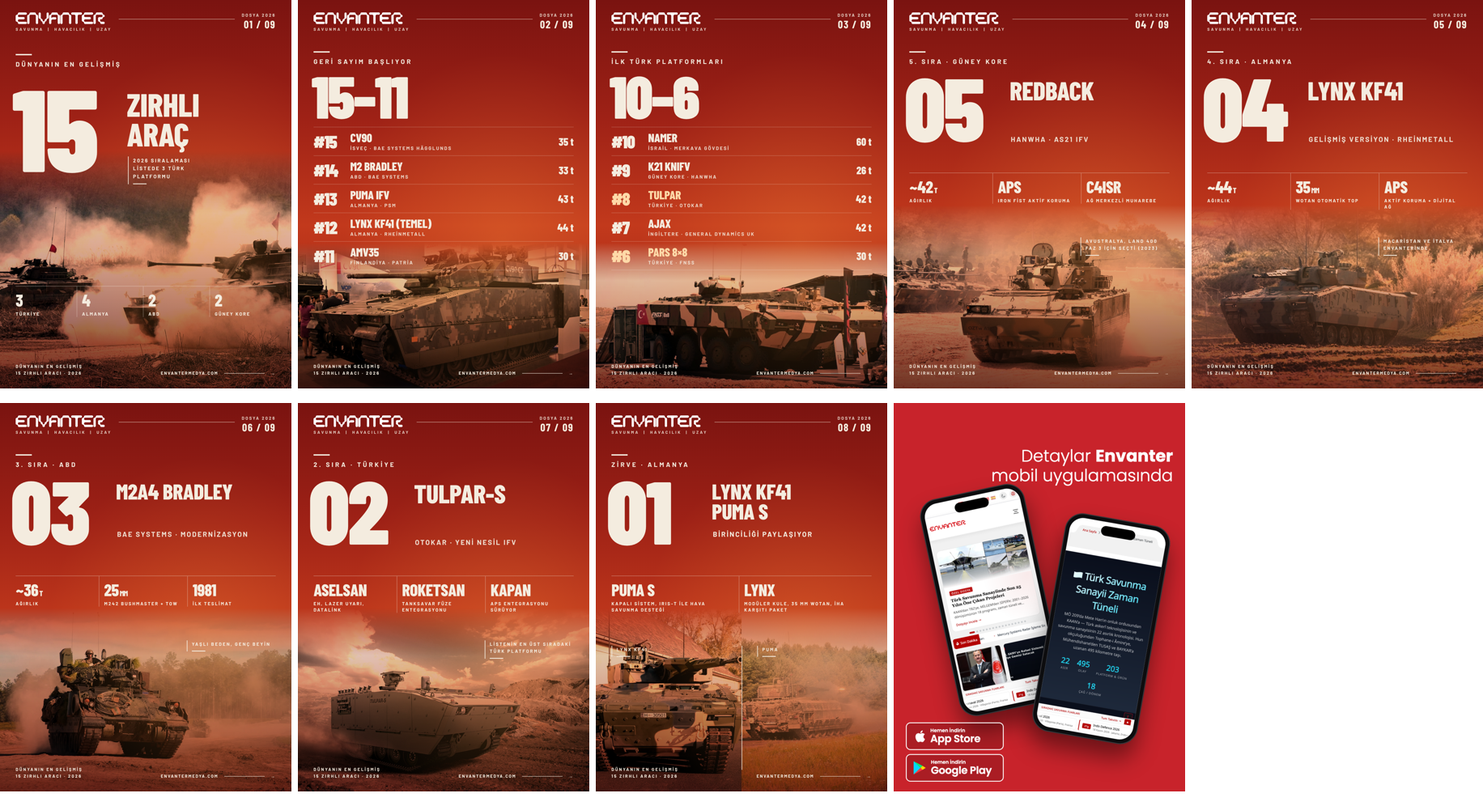
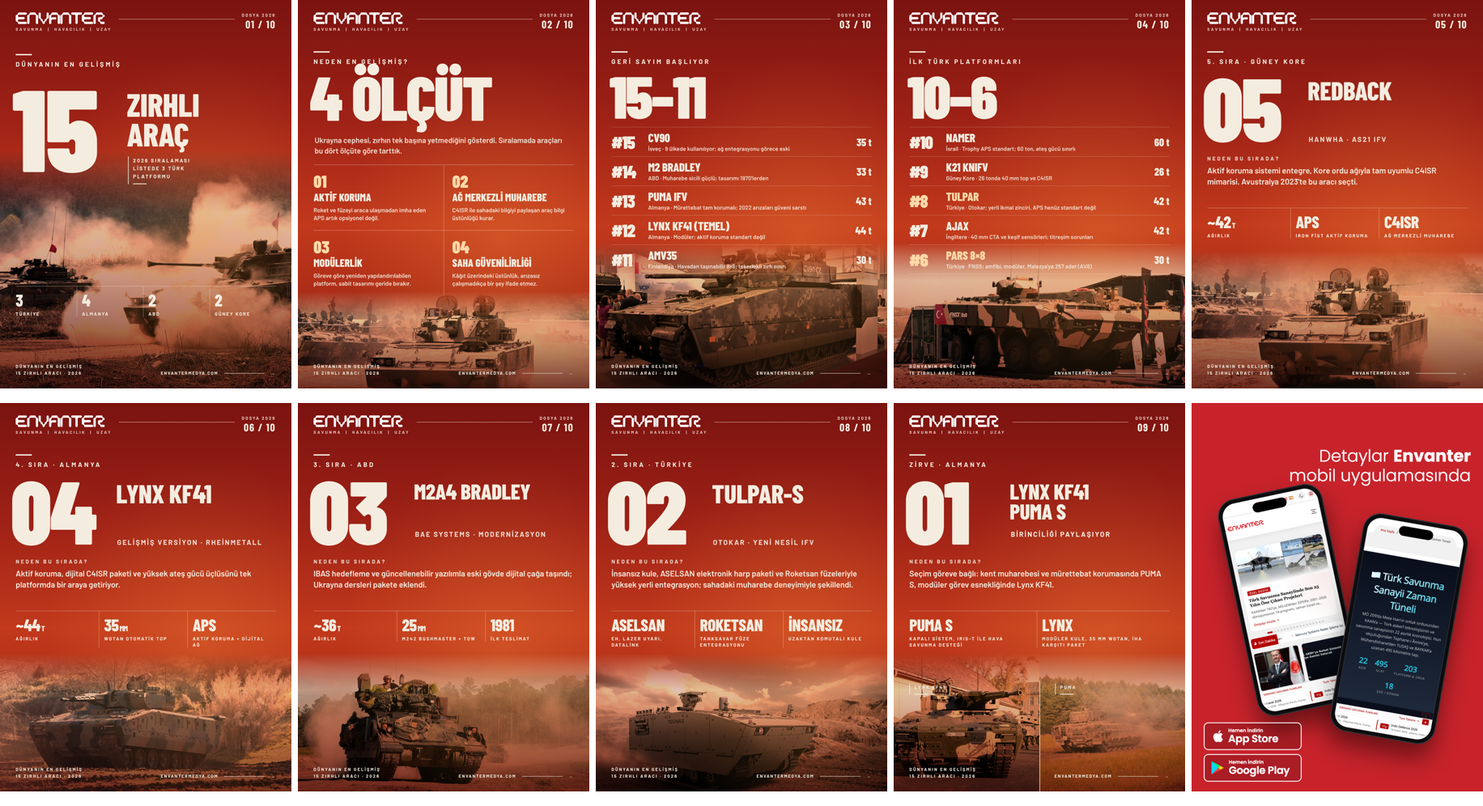
15 zırhlı araç serisi: "Neden en gelişmiş" ölçüt slaytı, satır gerekçeleri ve sıra açıklamaları eklendi
Claude-Session: https://claude.ai/code/session_01AWoAGzbCcH5xr3TPTj3t44

diff --git a/kartlar/en-gelismis-15-zirhli/seri.html b/kartlar/en-gelismis-15-zirhli/seri.html
@@ -48,54 +48,74 @@ body{background:#000}
 .rows .t span{display:block;font-size:18px;font-weight:700;letter-spacing:3.5px;text-transform:uppercase;margin-top:6px;opacity:.88}
 .rows .w{font-family:"Barlow Condensed";font-weight:800;font-size:40px;text-align:right}
 .rows .rw.tr .n,.rows .rw.tr .t b{color:#FFD9A8}
-</style></head><body><section class="card" id="s1"><div class="ph" style="top:560px;background-image:url(_src/kapak.jpg);background-position:60% center"></div><div class="tint" style="top:560px"></div><div class="glow"></div><div class="hd"><div class="lg"><img src="_src/logo-white.png"><div>SAVUNMA &nbsp;|&nbsp; HAVACILIK &nbsp;|&nbsp; UZAY</div></div><div class="ln"></div><div class="ds"><div>DOSYA 2026</div><b>01 / 09</b></div></div>
+
+.rows .t span.g{font-size:21px;font-weight:600;letter-spacing:.2px;text-transform:none;opacity:.92}
+.why{position:absolute;left:58px;right:58px;z-index:6}
+.why .k{font-size:20px;font-weight:700;letter-spacing:6px;opacity:.9}
+.why p{font-size:30px;line-height:1.36;font-weight:600;margin-top:12px}
+.cr{position:absolute;left:58px;right:58px;top:560px;z-index:6;display:grid;grid-template-columns:1fr 1fr;gap:0}
+.cr>div{padding:30px 30px 30px 0;border-top:2px solid rgba(244,236,223,.35)}
+.cr>div:nth-child(even){padding-left:30px;border-left:2px solid rgba(244,236,223,.35)}
+.cr b{display:block;font-family:"Barlow Condensed";font-weight:900;font-size:64px;line-height:.9;color:#FFD9A8}
+.cr i{display:block;font-style:normal;font-family:"Barlow Condensed";font-weight:800;font-size:40px;text-transform:uppercase;margin-top:6px}
+.cr span{display:block;font-size:22px;line-height:1.35;font-weight:600;margin-top:10px;opacity:.92}
+</style></head><body><section class="card" id="s1"><div class="ph" style="top:560px;background-image:url(_src/kapak.jpg);background-position:60% center"></div><div class="tint" style="top:560px"></div><div class="glow"></div><div class="hd"><div class="lg"><img src="_src/logo-white.png"><div>SAVUNMA &nbsp;|&nbsp; HAVACILIK &nbsp;|&nbsp; UZAY</div></div><div class="ln"></div><div class="ds"><div>DOSYA 2026</div><b>01 / 10</b></div></div>
 <div class="z" style="left:58px;top:200px"><div class="bar"></div><div class="lab">Dünyanın en gelişmiş</div></div>
 <div class="z big" style="left:44px;top:290px;font-size:430px">15</div>
 <div class="z h" style="left:470px;top:330px;font-size:120px">Zırhlı<br>Araç</div>
 <div class="z vn" style="left:474px;top:580px">2026 sıralaması<br>listede 3 türk<br>platformu</div>
 <div class="z stats" style="left:58px;right:58px;top:1060px"><div><b>3</b><span>Türkiye</span></div><div><b>4</b><span>Almanya</span></div><div><b>2</b><span>ABD</span></div><div><b>2</b><span>Güney Kore</span></div></div><div class="ft"><div>Dünyanın en gelişmiş<br>15 zırhlı aracı · 2026</div><div class="r">envantermedya.com <i></i>→</div></div></section>
-<section class="card" id="s2"><div class="ph" style="top:900px;background-image:url(_src/cv90.jpg);background-position:center 40%"></div><div class="tint" style="top:900px"></div><div class="glow"></div><div class="hd"><div class="lg"><img src="_src/logo-white.png"><div>SAVUNMA &nbsp;|&nbsp; HAVACILIK &nbsp;|&nbsp; UZAY</div></div><div class="ln"></div><div class="ds"><div>DOSYA 2026</div><b>02 / 09</b></div></div>
+<section class="card" id="s2"><div class="ph" style="top:1080px;background-image:url(_src/redback.jpg);background-position:center 40%"></div><div class="tint" style="top:1080px"></div><div class="glow"></div><div class="hd"><div class="lg"><img src="_src/logo-white.png"><div>SAVUNMA &nbsp;|&nbsp; HAVACILIK &nbsp;|&nbsp; UZAY</div></div><div class="ln"></div><div class="ds"><div>DOSYA 2026</div><b>02 / 10</b></div></div>
+<div class="z" style="left:58px;top:190px"><div class="bar"></div><div class="lab">Neden en gelişmiş?</div></div>
+<div class="z big" style="left:44px;top:262px;font-size:230px">4 ölçüt</div>
+<div class="z" style="left:62px;top:500px;font-size:28px;font-weight:600;line-height:1.4;max-width:920px;opacity:.95">Ukrayna cephesi, zırhın tek başına yetmediğini gösterdi. Sıralamada araçları bu dört ölçüte göre tarttık.</div>
+<div class="cr" style="top:610px"><div><b>01</b><i>Aktif koruma</i><span>Roket ve füzeyi araca ulaşmadan imha eden APS artık opsiyonel değil.</span></div>
+<div><b>02</b><i>Ağ merkezli muharebe</i><span>C4ISR ile sahadaki bilgiyi paylaşan araç bilgi üstünlüğü kurar.</span></div>
+<div><b>03</b><i>Modülerlik</i><span>Göreve göre yeniden yapılandırılabilen platform, sabit tasarımı geride bırakır.</span></div>
+<div><b>04</b><i>Saha güvenilirliği</i><span>Kâğıt üzerindeki üstünlük, arızasız çalışmadıkça bir şey ifade etmez.</span></div></div>
+<div class="ft"><div>Dünyanın en gelişmiş<br>15 zırhlı aracı · 2026</div><div class="r">envantermedya.com <i></i>→</div></div></section>
+<section class="card" id="s3"><div class="ph" style="top:900px;background-image:url(_src/cv90.jpg);background-position:center 40%"></div><div class="tint" style="top:900px"></div><div class="glow"></div><div class="hd"><div class="lg"><img src="_src/logo-white.png"><div>SAVUNMA &nbsp;|&nbsp; HAVACILIK &nbsp;|&nbsp; UZAY</div></div><div class="ln"></div><div class="ds"><div>DOSYA 2026</div><b>03 / 10</b></div></div>
 <div class="z" style="left:58px;top:190px"><div class="bar"></div><div class="lab">Geri sayım başlıyor</div></div>
 <div class="z big" style="left:50px;top:262px;font-size:220px">15–11</div>
-<div class="z rows" style="left:58px;right:58px;top:470px"><div class="rw"><div class="n">#15</div><div class="t"><b>CV90</b><span>İsveç · BAE Systems Hägglunds</span></div><div class="w">35 t</div></div><div class="rw"><div class="n">#14</div><div class="t"><b>M2 Bradley</b><span>ABD · BAE Systems</span></div><div class="w">33 t</div></div><div class="rw"><div class="n">#13</div><div class="t"><b>PUMA IFV</b><span>Almanya · PSM</span></div><div class="w">43 t</div></div><div class="rw"><div class="n">#12</div><div class="t"><b>Lynx KF41 (temel)</b><span>Almanya · Rheinmetall</span></div><div class="w">44 t</div></div><div class="rw"><div class="n">#11</div><div class="t"><b>AMV35</b><span>Finlandiya · Patria</span></div><div class="w">30 t</div></div></div><div class="ft"><div>Dünyanın en gelişmiş<br>15 zırhlı aracı · 2026</div><div class="r">envantermedya.com <i></i>→</div></div></section>
-<section class="card" id="s3"><div class="ph" style="top:900px;background-image:url(_src/pars.jpg);background-position:center 55%"></div><div class="tint" style="top:900px"></div><div class="glow"></div><div class="hd"><div class="lg"><img src="_src/logo-white.png"><div>SAVUNMA &nbsp;|&nbsp; HAVACILIK &nbsp;|&nbsp; UZAY</div></div><div class="ln"></div><div class="ds"><div>DOSYA 2026</div><b>03 / 09</b></div></div>
+<div class="z rows" style="left:58px;right:58px;top:470px"><div class="rw"><div class="n">#15</div><div class="t"><b>CV90</b><span class="g">İsveç · 9 ülkede kullanılıyor; ağ entegrasyonu görece eski</span></div><div class="w">35 t</div></div><div class="rw"><div class="n">#14</div><div class="t"><b>M2 Bradley</b><span class="g">ABD · Muharebe sicili güçlü; tasarımı 1970'lerden</span></div><div class="w">33 t</div></div><div class="rw"><div class="n">#13</div><div class="t"><b>PUMA IFV</b><span class="g">Almanya · Mürettebat tam korumalı; 2022 arızaları güveni sarstı</span></div><div class="w">43 t</div></div><div class="rw"><div class="n">#12</div><div class="t"><b>Lynx KF41 (temel)</b><span class="g">Almanya · Modüler; aktif koruma standart değil</span></div><div class="w">44 t</div></div><div class="rw"><div class="n">#11</div><div class="t"><b>AMV35</b><span class="g">Finlandiya · Havadan taşınabilir 8×8; tekerlekli zırh sınırı</span></div><div class="w">30 t</div></div></div><div class="ft"><div>Dünyanın en gelişmiş<br>15 zırhlı aracı · 2026</div><div class="r">envantermedya.com <i></i>→</div></div></section>
+<section class="card" id="s4"><div class="ph" style="top:900px;background-image:url(_src/pars.jpg);background-position:center 55%"></div><div class="tint" style="top:900px"></div><div class="glow"></div><div class="hd"><div class="lg"><img src="_src/logo-white.png"><div>SAVUNMA &nbsp;|&nbsp; HAVACILIK &nbsp;|&nbsp; UZAY</div></div><div class="ln"></div><div class="ds"><div>DOSYA 2026</div><b>04 / 10</b></div></div>
 <div class="z" style="left:58px;top:190px"><div class="bar"></div><div class="lab">İlk Türk platformları</div></div>
 <div class="z big" style="left:50px;top:262px;font-size:220px">10–6</div>
-<div class="z rows" style="left:58px;right:58px;top:470px"><div class="rw"><div class="n">#10</div><div class="t"><b>Namer</b><span>İsrail · Merkava gövdesi</span></div><div class="w">60 t</div></div><div class="rw"><div class="n">#9</div><div class="t"><b>K21 KNIFV</b><span>Güney Kore · Hanwha</span></div><div class="w">26 t</div></div><div class="rw tr"><div class="n">#8</div><div class="t"><b>TULPAR</b><span>Türkiye · Otokar</span></div><div class="w">42 t</div></div><div class="rw"><div class="n">#7</div><div class="t"><b>AJAX</b><span>İngiltere · General Dynamics UK</span></div><div class="w">42 t</div></div><div class="rw tr"><div class="n">#6</div><div class="t"><b>PARS 8×8</b><span>Türkiye · FNSS</span></div><div class="w">30 t</div></div></div><div class="ft"><div>Dünyanın en gelişmiş<br>15 zırhlı aracı · 2026</div><div class="r">envantermedya.com <i></i>→</div></div></section>
-<section class="card" id="s4"><div class="ph" style="top:760px;background-image:url(_src/redback.jpg);background-position:center 45%"></div><div class="tint" style="top:760px"></div><div class="glow"></div><div class="hd"><div class="lg"><img src="_src/logo-white.png"><div>SAVUNMA &nbsp;|&nbsp; HAVACILIK &nbsp;|&nbsp; UZAY</div></div><div class="ln"></div><div class="ds"><div>DOSYA 2026</div><b>04 / 09</b></div></div>
+<div class="z rows" style="left:58px;right:58px;top:470px"><div class="rw"><div class="n">#10</div><div class="t"><b>Namer</b><span class="g">İsrail · Trophy APS standart; 60 ton, ateş gücü sınırlı</span></div><div class="w">60 t</div></div><div class="rw"><div class="n">#9</div><div class="t"><b>K21 KNIFV</b><span class="g">Güney Kore · 26 tonda 40 mm top ve C4ISR</span></div><div class="w">26 t</div></div><div class="rw tr"><div class="n">#8</div><div class="t"><b>TULPAR</b><span class="g">Türkiye · Otokar; yerli ikmal zinciri, APS henüz standart değil</span></div><div class="w">42 t</div></div><div class="rw"><div class="n">#7</div><div class="t"><b>AJAX</b><span class="g">İngiltere · 40 mm CTA ve keşif sensörleri; titreşim sorunları</span></div><div class="w">42 t</div></div><div class="rw tr"><div class="n">#6</div><div class="t"><b>PARS 8×8</b><span class="g">Türkiye · FNSS; amfibi, modüler, Malezya'ya 257 adet (AV8)</span></div><div class="w">30 t</div></div></div><div class="ft"><div>Dünyanın en gelişmiş<br>15 zırhlı aracı · 2026</div><div class="r">envantermedya.com <i></i>→</div></div></section>
+<section class="card" id="s5"><div class="ph" style="top:930px;background-image:url(_src/redback.jpg);background-position:center 45%"></div><div class="tint" style="top:930px"></div><div class="glow"></div><div class="hd"><div class="lg"><img src="_src/logo-white.png"><div>SAVUNMA &nbsp;|&nbsp; HAVACILIK &nbsp;|&nbsp; UZAY</div></div><div class="ln"></div><div class="ds"><div>DOSYA 2026</div><b>05 / 10</b></div></div>
 <div class="z" style="left:58px;top:190px"><div class="bar"></div><div class="lab">5. sıra · Güney Kore</div></div>
 <div class="z big" style="left:40px;top:258px;font-size:330px">05</div>
 <div class="z h" style="left:430px;top:290px;font-size:96px">Redback</div>
 <div class="z" style="left:434px;top:500px;font-size:26px;font-weight:700;letter-spacing:4px;text-transform:uppercase;opacity:.92">Hanwha · AS21 IFV</div>
-<div class="z stats" style="left:58px;right:58px;top:640px"><div><b>~42<small>T</small></b><span>Ağırlık</span></div><div><b>APS</b><span>Iron Fist aktif koruma</span></div><div><b>C4ISR</b><span>Ağ merkezli muharebe</span></div></div>
-<div class="z vn" style="right:58px;top:880px;width:330px;font-size:17px">Avustralya, Land 400 Faz 3 için seçti (2023)</div><div class="ft"><div>Dünyanın en gelişmiş<br>15 zırhlı aracı · 2026</div><div class="r">envantermedya.com <i></i>→</div></div></section>
-<section class="card" id="s5"><div class="ph" style="top:760px;background-image:url(_src/lynx-it.jpg);background-position:center 55%"></div><div class="tint" style="top:760px"></div><div class="glow"></div><div class="hd"><div class="lg"><img src="_src/logo-white.png"><div>SAVUNMA &nbsp;|&nbsp; HAVACILIK &nbsp;|&nbsp; UZAY</div></div><div class="ln"></div><div class="ds"><div>DOSYA 2026</div><b>05 / 09</b></div></div>
+<div class="z stats" style="left:58px;right:58px;top:770px"><div><b>~42<small>T</small></b><span>Ağırlık</span></div><div><b>APS</b><span>Iron Fist aktif koruma</span></div><div><b>C4ISR</b><span>Ağ merkezli muharebe</span></div></div>
+<div class="why" style="top:575px"><div class="k">NEDEN BU SIRADA?</div><p>Aktif koruma sistemi entegre, Kore ordu ağıyla tam uyumlu C4ISR mimarisi. Avustralya 2023'te bu aracı seçti.</p></div><div class="ft"><div>Dünyanın en gelişmiş<br>15 zırhlı aracı · 2026</div><div class="r">envantermedya.com <i></i>→</div></div></section>
+<section class="card" id="s6"><div class="ph" style="top:930px;background-image:url(_src/lynx-it.jpg);background-position:center 55%"></div><div class="tint" style="top:930px"></div><div class="glow"></div><div class="hd"><div class="lg"><img src="_src/logo-white.png"><div>SAVUNMA &nbsp;|&nbsp; HAVACILIK &nbsp;|&nbsp; UZAY</div></div><div class="ln"></div><div class="ds"><div>DOSYA 2026</div><b>06 / 10</b></div></div>
 <div class="z" style="left:58px;top:190px"><div class="bar"></div><div class="lab">4. sıra · Almanya</div></div>
 <div class="z big" style="left:40px;top:258px;font-size:330px">04</div>
 <div class="z h" style="left:430px;top:290px;font-size:96px">Lynx KF41</div>
 <div class="z" style="left:434px;top:500px;font-size:26px;font-weight:700;letter-spacing:4px;text-transform:uppercase;opacity:.92">Gelişmiş versiyon · Rheinmetall</div>
-<div class="z stats" style="left:58px;right:58px;top:640px"><div><b>~44<small>T</small></b><span>Ağırlık</span></div><div><b>35<small>MM</small></b><span>Wotan otomatik top</span></div><div><b>APS</b><span>Aktif koruma + dijital ağ</span></div></div>
-<div class="z vn" style="right:58px;top:880px;width:330px;font-size:17px">Macaristan ve İtalya envanterinde</div><div class="ft"><div>Dünyanın en gelişmiş<br>15 zırhlı aracı · 2026</div><div class="r">envantermedya.com <i></i>→</div></div></section>
-<section class="card" id="s6"><div class="ph" style="top:760px;background-image:url(_src/m2a4.jpg);background-position:center 45%"></div><div class="tint" style="top:760px"></div><div class="glow"></div><div class="hd"><div class="lg"><img src="_src/logo-white.png"><div>SAVUNMA &nbsp;|&nbsp; HAVACILIK &nbsp;|&nbsp; UZAY</div></div><div class="ln"></div><div class="ds"><div>DOSYA 2026</div><b>06 / 09</b></div></div>
+<div class="z stats" style="left:58px;right:58px;top:770px"><div><b>~44<small>T</small></b><span>Ağırlık</span></div><div><b>35<small>MM</small></b><span>Wotan otomatik top</span></div><div><b>APS</b><span>Aktif koruma + dijital ağ</span></div></div>
+<div class="why" style="top:575px"><div class="k">NEDEN BU SIRADA?</div><p>Aktif koruma, dijital C4ISR paketi ve yüksek ateş gücü üçlüsünü tek platformda bir araya getiriyor.</p></div><div class="ft"><div>Dünyanın en gelişmiş<br>15 zırhlı aracı · 2026</div><div class="r">envantermedya.com <i></i>→</div></div></section>
+<section class="card" id="s7"><div class="ph" style="top:930px;background-image:url(_src/m2a4.jpg);background-position:center 45%"></div><div class="tint" style="top:930px"></div><div class="glow"></div><div class="hd"><div class="lg"><img src="_src/logo-white.png"><div>SAVUNMA &nbsp;|&nbsp; HAVACILIK &nbsp;|&nbsp; UZAY</div></div><div class="ln"></div><div class="ds"><div>DOSYA 2026</div><b>07 / 10</b></div></div>
 <div class="z" style="left:58px;top:190px"><div class="bar"></div><div class="lab">3. sıra · ABD</div></div>
 <div class="z big" style="left:40px;top:258px;font-size:330px">03</div>
 <div class="z h" style="left:430px;top:290px;font-size:80px">M2A4 Bradley</div>
 <div class="z" style="left:434px;top:470px;font-size:26px;font-weight:700;letter-spacing:4px;text-transform:uppercase;opacity:.92">BAE Systems · Modernizasyon</div>
-<div class="z stats" style="left:58px;right:58px;top:640px"><div><b>~36<small>T</small></b><span>Ağırlık</span></div><div><b>25<small>MM</small></b><span>M242 Bushmaster + TOW</span></div><div><b>1981</b><span>İlk teslimat</span></div></div>
-<div class="z vn" style="right:58px;top:880px;width:330px;font-size:17px">Yaşlı beden, genç beyin</div><div class="ft"><div>Dünyanın en gelişmiş<br>15 zırhlı aracı · 2026</div><div class="r">envantermedya.com <i></i>→</div></div></section>
-<section class="card" id="s7"><div class="ph" style="top:760px;background-image:url(_src/tulpar-s.jpg);background-position:center 55%"></div><div class="tint" style="top:760px"></div><div class="glow"></div><div class="hd"><div class="lg"><img src="_src/logo-white.png"><div>SAVUNMA &nbsp;|&nbsp; HAVACILIK &nbsp;|&nbsp; UZAY</div></div><div class="ln"></div><div class="ds"><div>DOSYA 2026</div><b>07 / 09</b></div></div>
+<div class="z stats" style="left:58px;right:58px;top:770px"><div><b>~36<small>T</small></b><span>Ağırlık</span></div><div><b>25<small>MM</small></b><span>M242 Bushmaster + TOW</span></div><div><b>1981</b><span>İlk teslimat</span></div></div>
+<div class="why" style="top:575px"><div class="k">NEDEN BU SIRADA?</div><p>IBAS hedefleme ve güncellenebilir yazılımla eski gövde dijital çağa taşındı; Ukrayna dersleri pakete eklendi.</p></div><div class="ft"><div>Dünyanın en gelişmiş<br>15 zırhlı aracı · 2026</div><div class="r">envantermedya.com <i></i>→</div></div></section>
+<section class="card" id="s8"><div class="ph" style="top:930px;background-image:url(_src/tulpar-s.jpg);background-position:center 55%"></div><div class="tint" style="top:930px"></div><div class="glow"></div><div class="hd"><div class="lg"><img src="_src/logo-white.png"><div>SAVUNMA &nbsp;|&nbsp; HAVACILIK &nbsp;|&nbsp; UZAY</div></div><div class="ln"></div><div class="ds"><div>DOSYA 2026</div><b>08 / 10</b></div></div>
 <div class="z" style="left:58px;top:190px"><div class="bar"></div><div class="lab">2. sıra · Türkiye</div></div>
 <div class="z big" style="left:40px;top:258px;font-size:330px">02</div>
 <div class="z h" style="left:430px;top:290px;font-size:96px">TULPAR-S</div>
 <div class="z" style="left:434px;top:500px;font-size:26px;font-weight:700;letter-spacing:4px;text-transform:uppercase;opacity:.92">Otokar · Yeni nesil IFV</div>
-<div class="z stats" style="left:58px;right:58px;top:640px"><div><b>ASELSAN</b><span>EH, lazer uyarı, datalink</span></div><div><b>ROKETSAN</b><span>Tanksavar füze entegrasyonu</span></div><div><b>KAPAN</b><span>APS entegrasyonu sürüyor</span></div></div>
-<div class="z vn" style="right:58px;top:880px;width:330px;font-size:17px">Listenin en üst sıradaki Türk platformu</div><div class="ft"><div>Dünyanın en gelişmiş<br>15 zırhlı aracı · 2026</div><div class="r">envantermedya.com <i></i>→</div></div></section>
-<section class="card" id="s8"><div class="ph" style="top:760px;right:50%;background-image:url(_src/lynx.jpg);background-position:center 60%"></div><div class="ph" style="top:760px;left:50%;background-image:url(_src/puma.jpg);background-position:center 60%"></div><div class="tint" style="top:760px"></div><div class="glow"></div>
-<div class="z" style="left:540px;top:900px;width:3px;height:460px;background:rgba(244,236,223,.7)"></div><div class="hd"><div class="lg"><img src="_src/logo-white.png"><div>SAVUNMA &nbsp;|&nbsp; HAVACILIK &nbsp;|&nbsp; UZAY</div></div><div class="ln"></div><div class="ds"><div>DOSYA 2026</div><b>08 / 09</b></div></div>
+<div class="z stats" style="left:58px;right:58px;top:770px"><div><b>ASELSAN</b><span>EH, lazer uyarı, datalink</span></div><div><b>ROKETSAN</b><span>Tanksavar füze entegrasyonu</span></div><div><b>İNSANSIZ</b><span>Uzaktan komutalı kule</span></div></div>
+<div class="why" style="top:575px"><div class="k">NEDEN BU SIRADA?</div><p>İnsansız kule, ASELSAN elektronik harp paketi ve Roketsan füzeleriyle yüksek yerli entegrasyon; sahadaki muharebe deneyimiyle şekillendi.</p></div><div class="ft"><div>Dünyanın en gelişmiş<br>15 zırhlı aracı · 2026</div><div class="r">envantermedya.com <i></i>→</div></div></section>
+<section class="card" id="s9"><div class="ph" style="top:930px;right:50%;background-image:url(_src/lynx.jpg);background-position:center 60%"></div><div class="ph" style="top:930px;left:50%;background-image:url(_src/puma.jpg);background-position:center 60%"></div><div class="tint" style="top:930px"></div><div class="glow"></div>
+<div class="z" style="left:540px;top:1030px;width:3px;height:460px;background:rgba(244,236,223,.7)"></div><div class="hd"><div class="lg"><img src="_src/logo-white.png"><div>SAVUNMA &nbsp;|&nbsp; HAVACILIK &nbsp;|&nbsp; UZAY</div></div><div class="ln"></div><div class="ds"><div>DOSYA 2026</div><b>09 / 10</b></div></div>
 <div class="z" style="left:58px;top:190px"><div class="bar"></div><div class="lab">Zirve · Almanya</div></div>
 <div class="z big" style="left:40px;top:258px;font-size:330px">01</div>
 <div class="z h" style="left:430px;top:290px;font-size:80px">Lynx KF41<br>PUMA S</div>
 <div class="z" style="left:434px;top:470px;font-size:26px;font-weight:700;letter-spacing:4px;text-transform:uppercase">Birinciliği paylaşıyor</div>
-<div class="z stats" style="left:58px;right:58px;top:640px"><div><b>PUMA S</b><span>Kapalı sistem, IRIS-T ile hava savunma desteği</span></div><div><b>LYNX</b><span>Modüler kule, 35 mm Wotan, İHA karşıtı paket</span></div></div>
-<div class="z vn" style="left:58px;top:900px;font-size:17px">Lynx KF41</div><div class="z vn" style="left:598px;top:900px;font-size:17px">PUMA</div><div class="ft"><div>Dünyanın en gelişmiş<br>15 zırhlı aracı · 2026</div><div class="r">envantermedya.com <i></i>→</div></div></section>
-<section class="card" id="s9" style="background:#D7262E url(_src/uygulama-karti.png) center/auto 1440px no-repeat"></section></body></html>
+<div class="z stats" style="left:58px;right:58px;top:770px"><div><b>PUMA S</b><span>Kapalı sistem, IRIS-T ile hava savunma desteği</span></div><div><b>LYNX</b><span>Modüler kule, 35 mm Wotan, İHA karşıtı paket</span></div></div>
+<div class="z vn" style="left:58px;top:1040px;font-size:17px">Lynx KF41</div><div class="z vn" style="left:598px;top:1040px;font-size:17px">PUMA</div><div class="why" style="top:575px"><div class="k">NEDEN BU SIRADA?</div><p>Seçim göreve bağlı: kent muharebesi ve mürettebat korumasında PUMA S, modüler görev esnekliğinde Lynx KF41.</p></div><div class="ft"><div>Dünyanın en gelişmiş<br>15 zırhlı aracı · 2026</div><div class="r">envantermedya.com <i></i>→</div></div></section>
+<section class="card" id="s10" style="background:#D7262E url(_src/uygulama-karti.png) center/auto 1440px no-repeat"></section></body></html>

diff --git a/kartlar/en-gelismis-15-zirhli/_src/render-seri.js b/kartlar/en-gelismis-15-zirhli/_src/render-seri.js
@@ -1,4 +1,4 @@
 const { chromium } = require('playwright');
 (async () => { const b = await chromium.launch(); const p = await b.newPage({ viewport:{width:1080,height:1440} });
 await p.goto('file://' + process.cwd() + '/seri.html'); await p.evaluate(()=>document.fonts.ready); await p.waitForTimeout(800);
-const n=['1-kapak', '2-15-11', '3-10-6', '4-redback', '5-lynx-kf41', '6-m2a4-bradley', '7-tulpar-s', '8-zirve', '9-uygulama']; for (let i=0;i<n.length;i++) await (await p.$('#s'+(i+1))).screenshot({path:'seri/'+n[i]+'.png'}); await b.close(); })();
+const n=['01-kapak', '02-olcutler', '03-15-11', '04-10-6', '05-redback', '06-lynx-kf41', '07-m2a4-bradley', '08-tulpar-s', '09-zirve', '10-uygulama']; for (let i=0;i<n.length;i++) await (await p.$('#s'+(i+1))).screenshot({path:'seri/'+n[i]+'.png'}); await b.close(); })();

diff --git a/kartlar/en-gelismis-15-zirhli/caption.md b/kartlar/en-gelismis-15-zirhli/caption.md
@@ -1,26 +1,27 @@
 # Dünyanın En Gelişmiş 15 Zırhlı Aracı — carousel ve caption
 
 Haber: https://envantermedya.com/dunyanin-en-gelismis-15-zirhl-arac/ (Yazı: Sarp Güçlü)
-Şablon: Figma · Kırmızı Dosya Serisi (83:66). 9 slayt, 1080×1440 (3:4). Kaynak: `seri.html`.
+Şablon: Figma · Kırmızı Dosya Serisi (83:66). 10 slayt, 1080×1440 (3:4). Kaynak: `seri.html`.
 Görseller: haberin kendi fotoğrafları (Envanter arşivi, Wikimedia Commons, UK MOD, ABD Ordusu, İtalyan Ordusu).
 
 | Slayt | İçerik |
 |---|---|
-| 1 | Kapak: 15 zırhlı araç; ülke dağılımı 3 Türkiye, 4 Almanya, 2 ABD, 2 Güney Kore |
-| 2 | #15–#11: CV90, M2 Bradley, PUMA, Lynx KF41 (temel), AMV35 |
-| 3 | #10–#6: Namer, K21, TULPAR, AJAX, PARS 8×8 |
-| 4 | #5 Redback |
-| 5 | #4 Lynx KF41 (gelişmiş versiyon) |
-| 6 | #3 M2A4 Bradley |
-| 7 | #2 TULPAR-S |
-| 8 | #1 Lynx KF41 / PUMA S, birinciliği paylaşıyor |
-| 9 | Envanter uygulama kartı |
+| 1 | Kapak: 15 zırhlı araç; 3 Türkiye, 4 Almanya, 2 ABD, 2 Güney Kore |
+| 2 | Neden en gelişmiş? 4 ölçüt: aktif koruma, ağ merkezli muharebe, modülerlik, saha güvenilirliği |
+| 3 | #15–#11, her araç için tek satır gerekçe |
+| 4 | #10–#6, her araç için tek satır gerekçe |
+| 5 | #5 Redback + neden bu sırada |
+| 6 | #4 Lynx KF41 (gelişmiş) + neden bu sırada |
+| 7 | #3 M2A4 Bradley + neden bu sırada |
+| 8 | #2 TULPAR-S + neden bu sırada |
+| 9 | #1 Lynx KF41 / PUMA S + neden bu sırada |
+| 10 | Envanter uygulama kartı |
 
 ## Instagram / Facebook
 
 Dünyanın en gelişmiş 15 zırhlı aracı: Listede 3 Türk platformu var 🇹🇷
 
-Aktif koruma sistemleri, ağ merkezli muharebe ve modüler kuleler artık piyade muharebe araçlarının yeni ölçütü. Envanter Medya'nın 2026 sıralamasında İsveç'in CV90'ından Güney Kore'nin Redback'ine, İsrail'in 60 tonluk Namer'inden Almanya'nın Lynx KF41 ve PUMA'sına uzanan 15 platformu geri sayımla derledik. Otokar'ın TULPAR-S'i ikinci sırada; TULPAR ve FNSS'nin PARS 8×8'i de listede.
+Bir zırhlı aracı "en gelişmiş" yapan artık yalnızca zırhı değil: aktif koruma sistemi, ağ merkezli muharebe kabiliyeti, modülerlik ve sahadaki güvenilirliği. Bu dört ölçütle hazırladığımız 2026 sıralamasında İsveç'in CV90'ından Güney Kore'nin Redback'ine, İsrail'in 60 tonluk Namer'inden Almanya'nın Lynx KF41 ve PUMA'sına uzanan 15 platformu geri sayımla derledik. Otokar'ın TULPAR-S'i ikinci sırada; TULPAR ve FNSS'nin PARS 8×8'i de listede.
 
 Kaydırın, sıralamayı görün. Dosyanın tamamı Envanter mobil uygulamasında ve envantermedya.com'da.
 
